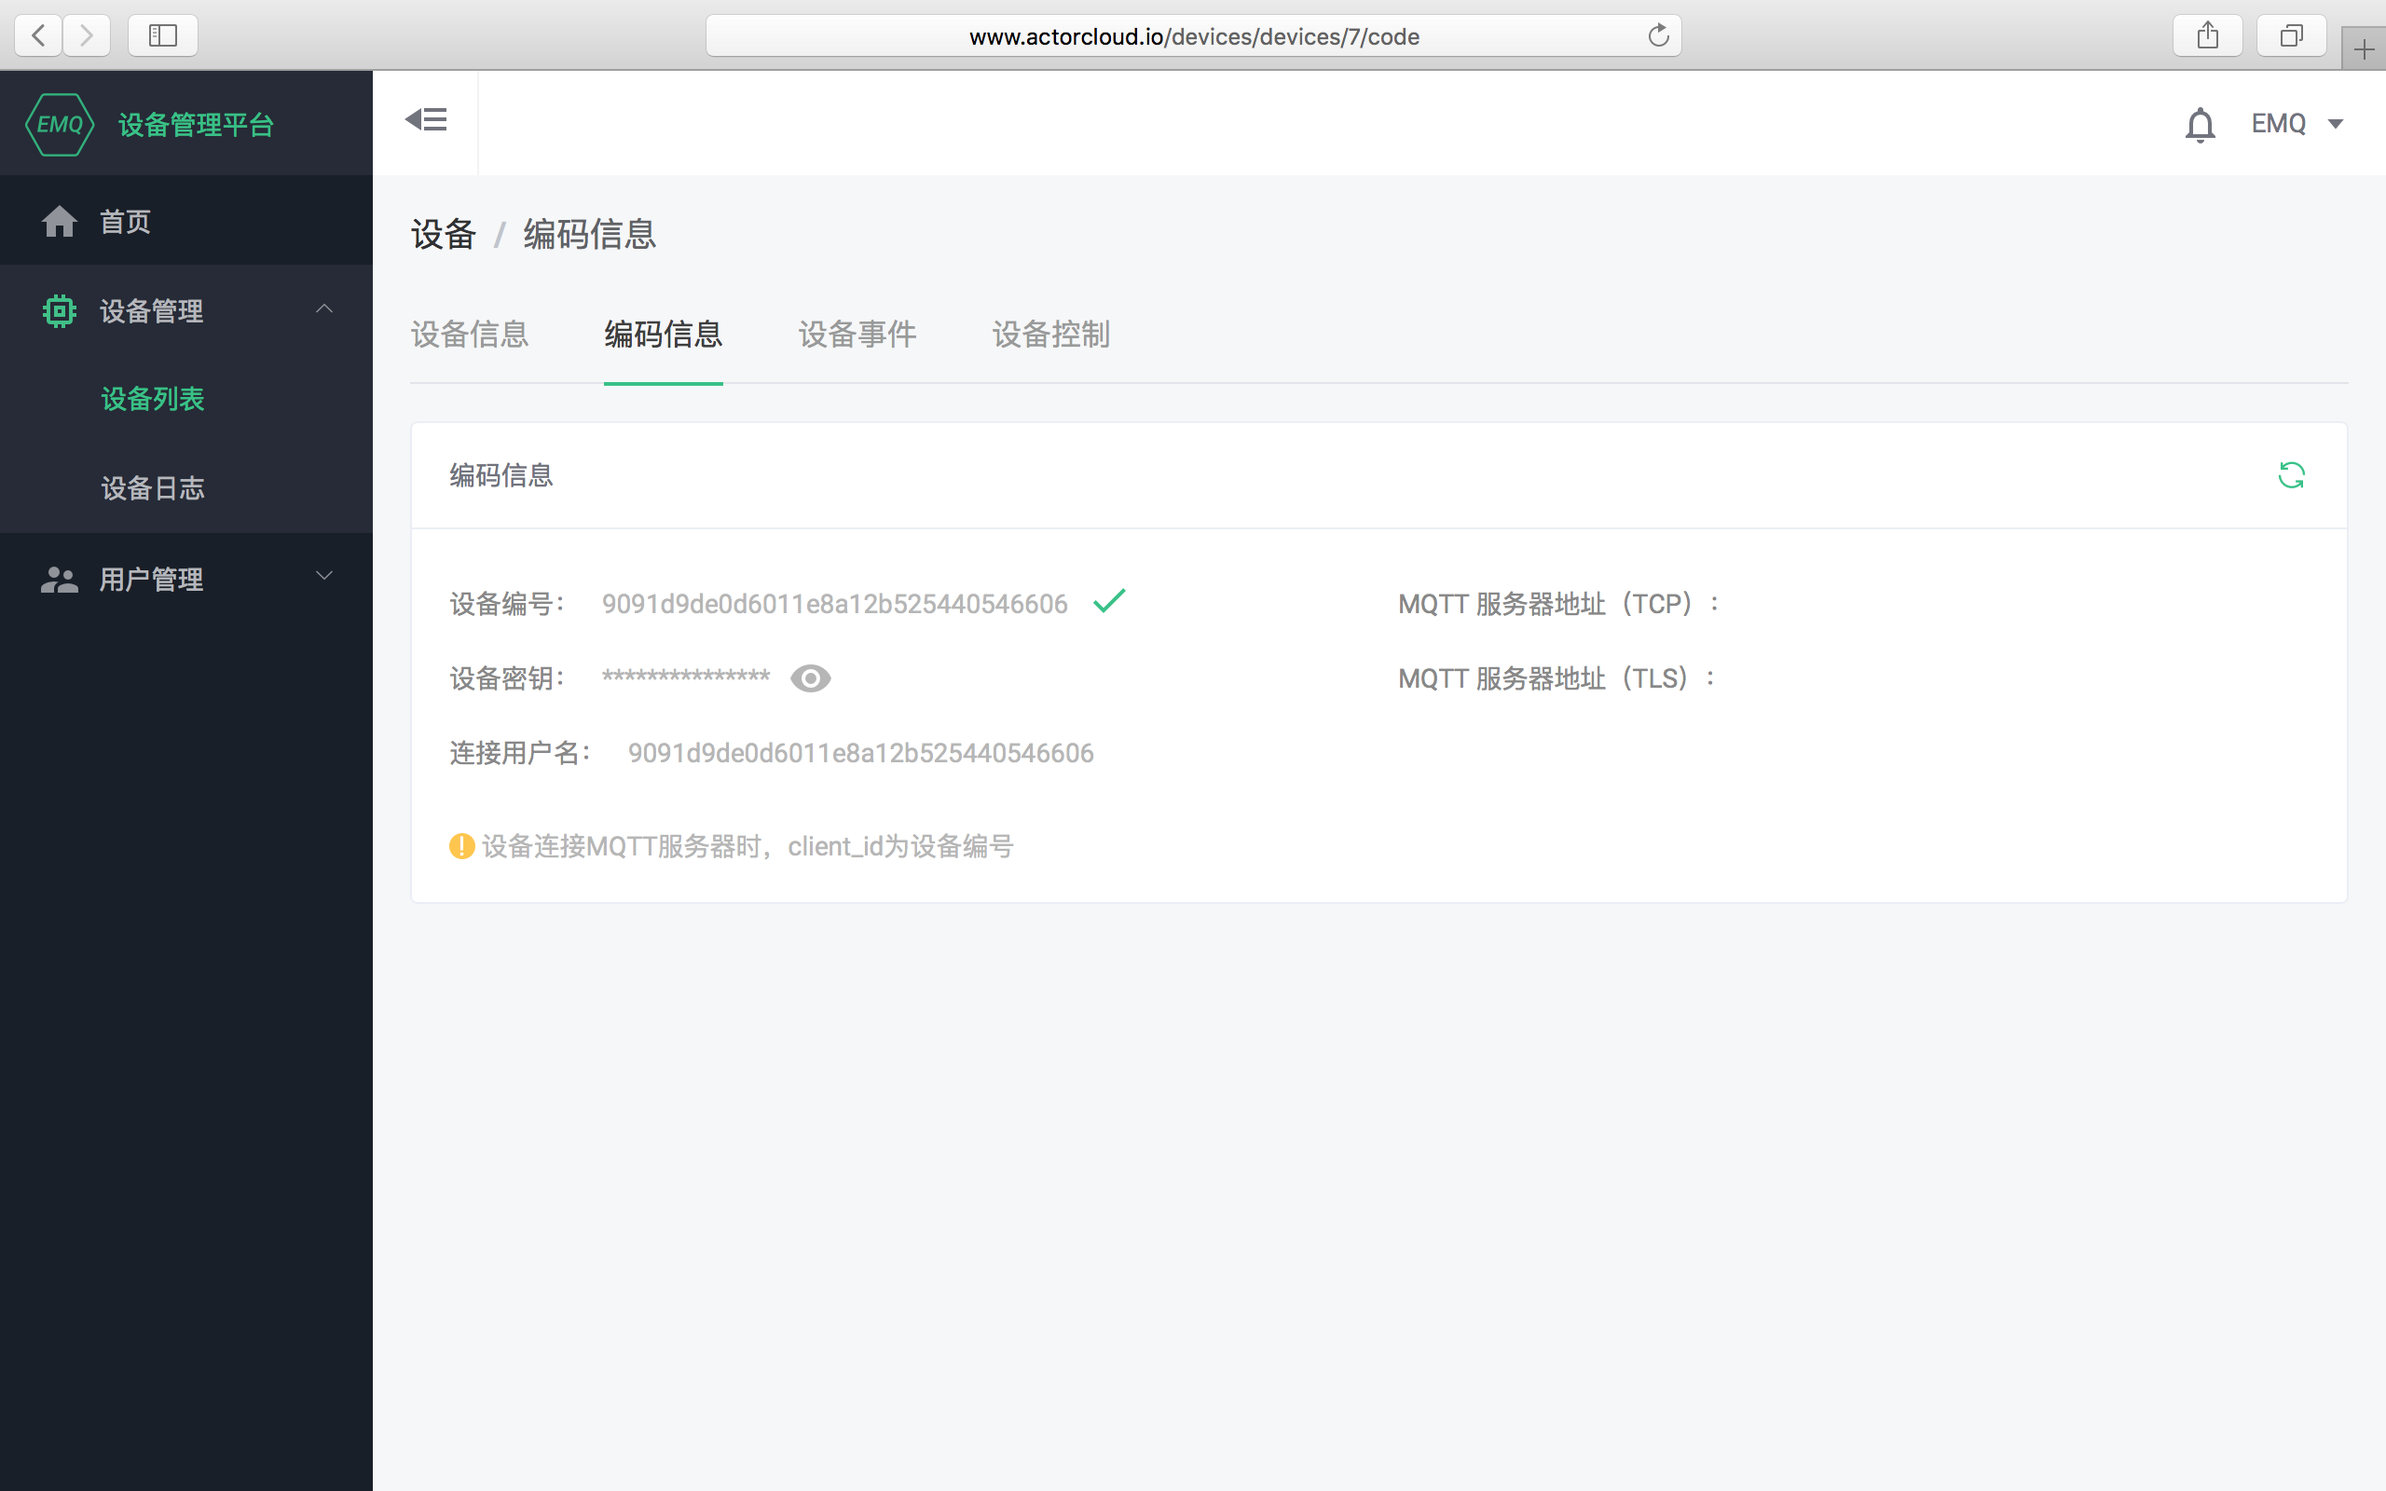
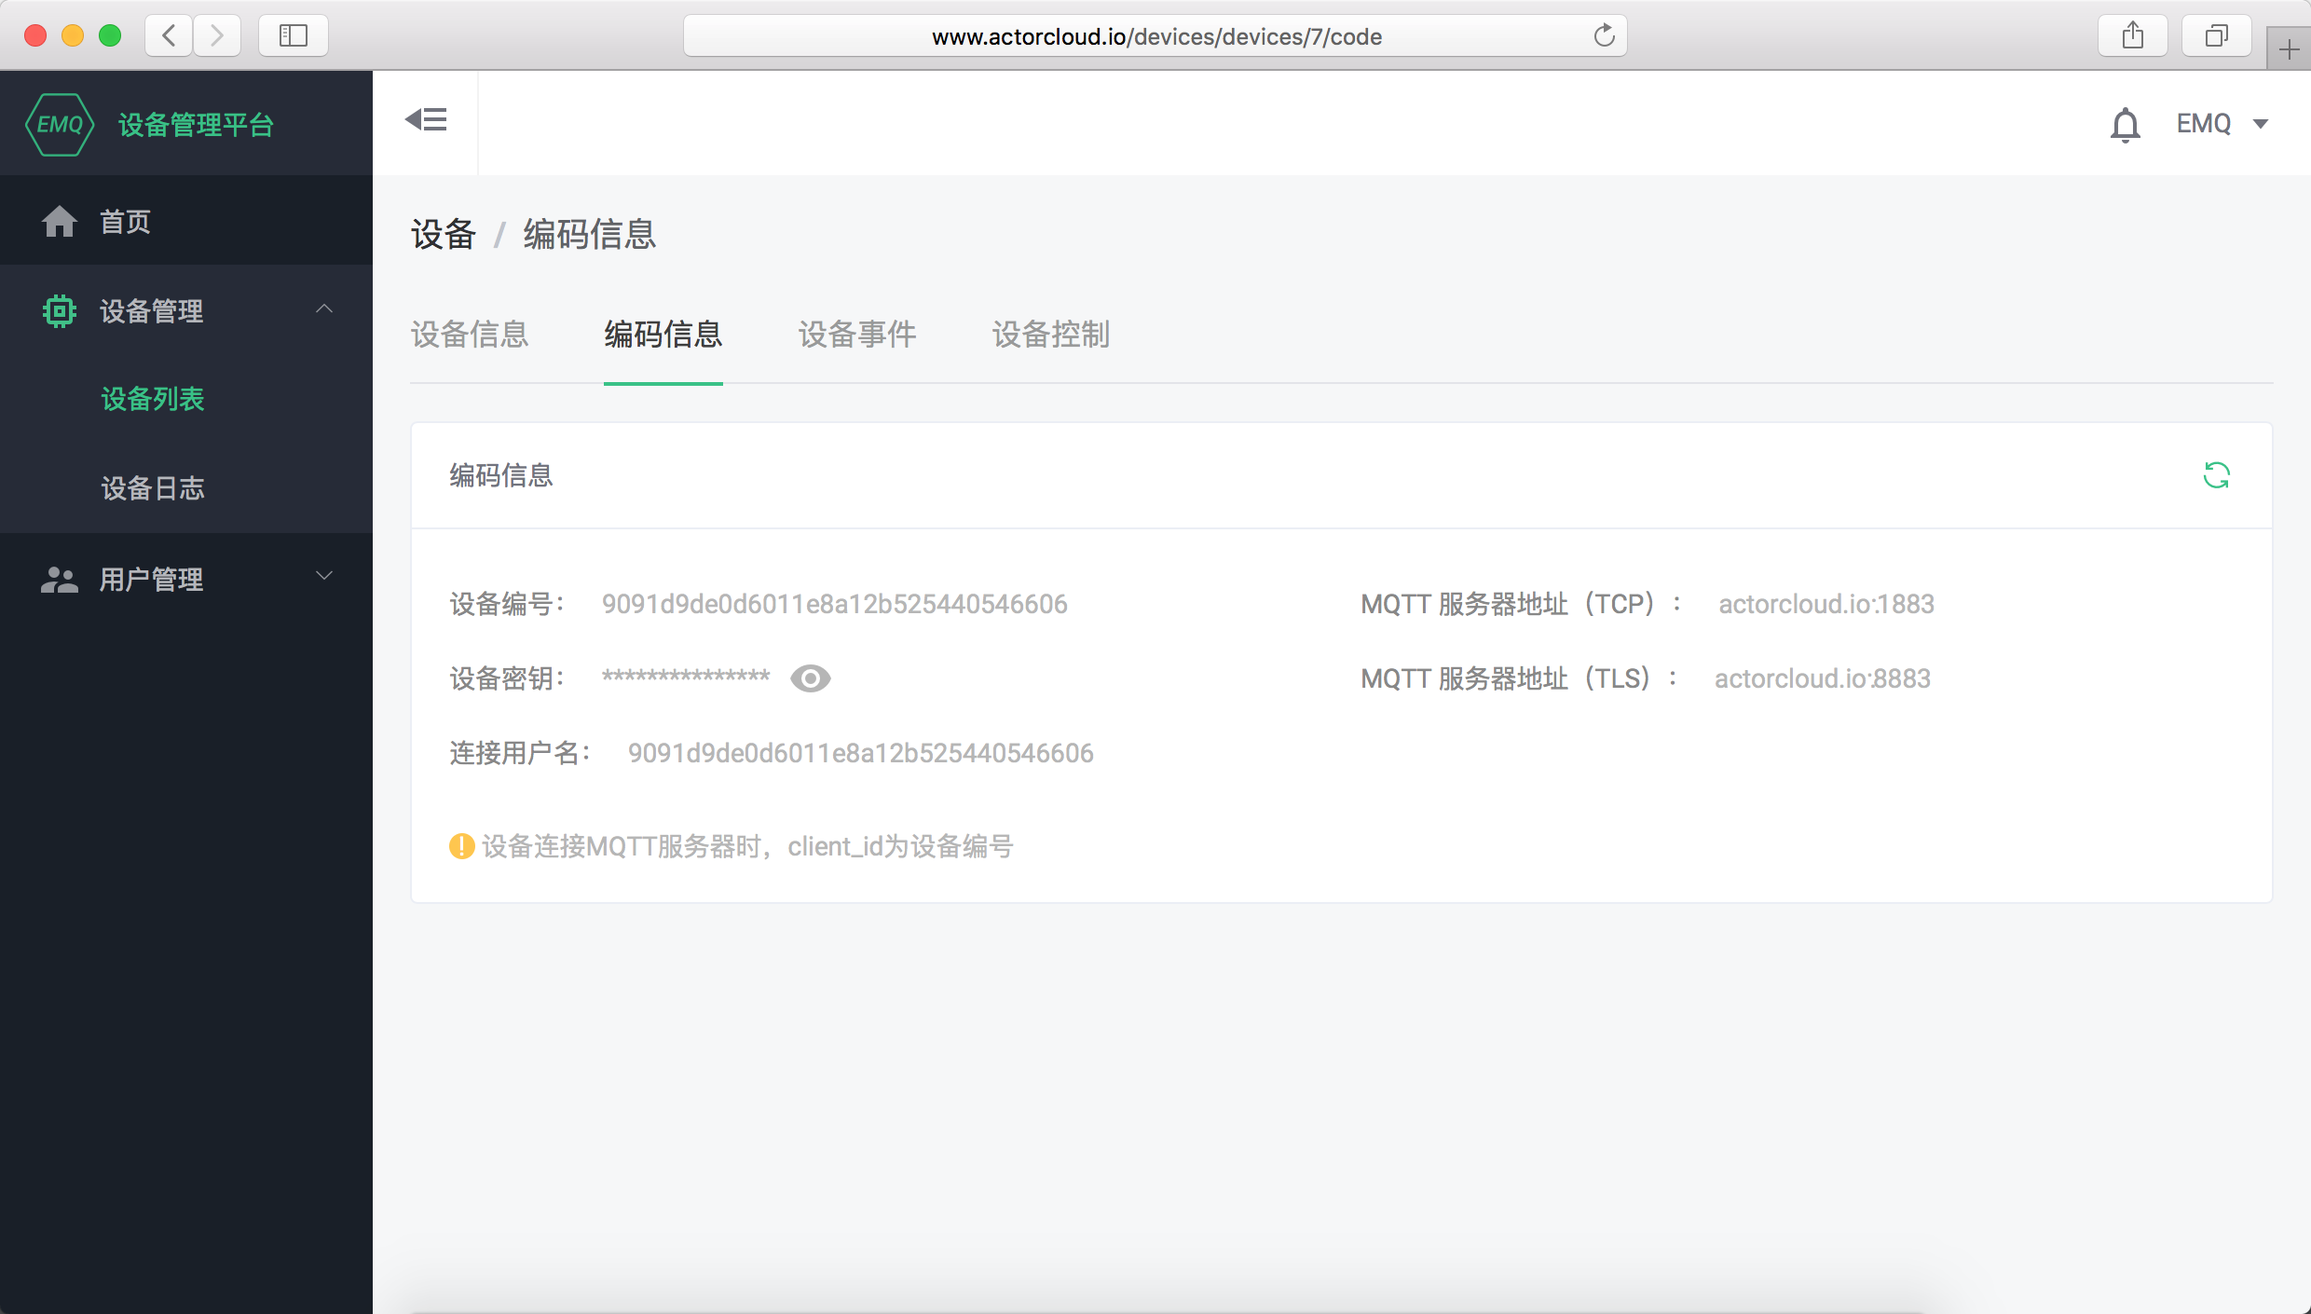
feat(content): 完善内容

diff --git a/device_connect/device_auth.md b/device_connect/device_auth.md
@@ -1,8 +1,53 @@
-# 认证控制
+# 认证鉴权
 
-**设备管理平台** 所添加的设备信息中，认证信息作为 **消息服务器** `PostgreSQL认证/访问控制插件`_ 的数据源，
-供 **消息服务器** 进行设备连接鉴权控制。
+**设备管理平台**所添加的设备信息中，认证信息作为**消息服务器 ACL 规则**的数据源，供**消息服务器**进行设备连接鉴权控制。
 
-设备在连接到 **消息服务器** 时，应当使用 **设备详情** -> **编码信息** 中的设备编号、设备密钥、连接用户名与 MQTT 服务器地址进行连接。
+设备在连接到**消息服务器**时，应当使用**设备详情** -> **编码信息**中的设备编号、设备密钥、连接用户名与 MQTT 服务器地址进行连接。
+
+对应关系如下：
+- 设备编号：MQTT ClientId
+- 连接用户名：MQTT Username
+- 设备密钥：MQTT Password
+
+![](/assets/device_decode.png)
+
+**Python 客户端代码示例**
+
+```python
+# --coding: utf-8--
+
+import paho.mqtt.client as mqtt
+import json
+
+# 设备需要在 actorcloud 平台注册
+client_id = 'ce07c198187811e8a12b525440546606'
+username = 'ce07c198187811e8a12b525440546606'
+password = 'ce07c199187811e8a12b525440546606'
+HOST = 'actorcloud.io'
 
 
+def on_connect(client, userdata, flags, rc):
+    print('Connected with result code ' + str(rc))
+    client.subscribe(client_id)
+    client.publish(client_id, json.dumps({
+        'cmd': 'reboot'
+    }))
+
+
+# 设备控制、分组控制及其他方式 publish 的消息统一在此处理
+def on_message(client, userdata, msg):
+    print('from {0} received {1}'.format(msg.topic, str(msg.payload)))
+    # 其他处理逻辑
+    pass
+
+# 设备务必使用用户名密码认证
+client = mqtt.Client(client_id=client_id)
+client.username_pw_set(username, password)
+
+client.on_connect = on_connect
+client.on_message = on_message
+
+client.connect(HOST)
+
+client.loop_forever()
+```

diff --git a/README.md b/README.md
@@ -1,6 +1,28 @@
-# _EMQ_设备管理平台 actorcloud
+# *EMQ* 设备管理平台 actorcloud 使用手册
 
-***EMQ* 设备管理平台** **actorcloud** 正式上线，访问 [http://www.actorcloud.io](http://www.actorcloud.io/) 可进行功能预览、使用体验。
+***EMQ* 设备管理平台**（以下简称设备管理平台） **actorcloud** 正式上线，访问 [http://www.actorcloud.io](http://www.actorcloud.io/) 可进行功能预览、使用体验。
 
 **actorcloud** 是一个集连接记录、消息管理、用户管理功能的物联网设备管理平台， 平台提供设备和设备分组的创建管理、连接鉴权、消息存储与管理、事件查看与派发等功能。 用户可以通过 **actorcloud** 对接***EMQ X*消息服务器**进行联网设备的运维管理。
 
+#### 手册目录
+* [actorcloud 入门](introduction/introduction.md)
+  * [账户注册与登录](introduction/account.md)
+  * [平台数据概览](introduction/overview.md)
+  * [账户信息变更](introduction/account_modify.md)
+* [设备管理](device_list/device_list.md)
+  * [列表操作](device_list/operator.md)
+  * [新建设备](device_list/device_create.md)
+  * [设备信息](device_list/device_info.md)
+  * [新建产品](device_list/product_create.md)
+  * [新建分组](device_list/group_create.md)
+* [接入指南](device_connect/device_connect.md)
+  * [认证鉴权](device_connect/device_auth.md)
+  * [设备控制](device_connect/device_control.md)
+  * [消息持久化](device_connect/device_storage.md)
+* [设备日志](device_log/device_log.md)
+* [用户管理](user/user.md)
+  * [用户新建与用户邀请(公司账户)](user/invitation.md)
+  * [角色(公司账户)](user/role.md)
+  * [应用](user/application.md)
+  * [登录日志](user/log_log.md)
+* [REST API](rest/rest.md)

diff --git a/SUMMARY.md b/SUMMARY.md
@@ -4,26 +4,21 @@
 * [actorcloud 入门](introduction/introduction.md)
   * [账户注册与登录](introduction/account.md)
   * [平台数据概览](introduction/overview.md)
-  * [账户信息变更(公司账户)](introduction/account_modify.md)
-* [设备列表](device_list/device_list.md)
+  * [账户信息变更](introduction/account_modify.md)
+* [设备管理](device_list/device_list.md)
   * [列表操作](device_list/operator.md)
-  * [设备新建](device_list/device_create.md)
-  * [产品新建](device_list/product_create.md)
-  * [分组新建](device_list/group_create.md)
-* [设备信息](device_info/device_info.md)
-  * [编码信息](device_info/device_decode.md)
-  * [设备事件](device_info/device_event.md)
-  * [设备控制](device_info/device_control.md)
-* [设备连接与控制](device_connect/device_connect.md)
-  * [认证控制](device_connect/device_auth.md)
+  * [新建设备](device_list/device_create.md)
+  * [设备信息](device_list/device_info.md)
+  * [新建产品](device_list/product_create.md)
+  * [新建分组](device_list/group_create.md)
+* [接入指南](device_connect/device_connect.md)
+  * [认证鉴权](device_connect/device_auth.md)
   * [设备控制](device_connect/device_control.md)
   * [消息持久化](device_connect/device_storage.md)
 * [设备日志](device_log/device_log.md)
-  * [连接日志](device_log/device_connect_log.md)
-  * [上行消息](device_log/device_upstream.md)
-  * [下行消息](device_log/device_downstream.md)
 * [用户管理](user/user.md)
   * [用户新建与用户邀请(公司账户)](user/invitation.md)
   * [角色(公司账户)](user/role.md)
   * [应用](user/application.md)
   * [登录日志](user/log_log.md)
+* [REST API](rest/rest.md)

diff --git a/introduction/account.md b/introduction/account.md
@@ -1,8 +1,26 @@
 # 账户注册与登录
 
-1. 打开 [设备管理平台主页](http://www.actorcloud.io/)，如果你之前未登陆过平台或者登录信息已过期，再次访问平台时将会跳转到登录页面。
+#### 如果你没有 **actorcloud** 账户，请先注册。
+
+**注册 actorcloud 账户**
+
+1. 打开 [设备管理平台主页](http://www.actorcloud.io/)，如果你之前未登陆过平台或者登录信息已过期将会跳转到登录页面。
 2. 点击 [前去注册](http://www.actorcloud.io/signup)，根据你使用身份，完善注册信息，创建一个全新的账户。
 3. 账户创建成功后跳转到登录页面，使用账户邮箱与密码即可登录系统。
+4. 可使用用户邀请功能直接将邀请链接发送到指定邮箱进行注册。
+
+![](/assets/singup.png)
+
+> 如果用户通过邀请链接进入注册页面，页面不再提供账户类型选择。
+
+
+**登录 actorcloud 平台**
+
+- 使用已注册账号的邮箱和密码登录。
 
 ![](/assets/login.png)
 
+
+#### 个人用户与企业用户的区别
+- 个人用户使用单个账号管理平台，该账号拥有平台全部操作权限，适合单人管理使用。
+- 企业用户提供平台管理权限控制，可以直接创建或通过邮件邀请创建多个企业子账号、并赋予适当权限进行平台管理。

diff --git a/device_list/operator.md b/device_list/operator.md
@@ -2,11 +2,11 @@
 
 依次点击左侧导航栏**设备管理**->**设备列表**进入列表页，设备列表包含**设备**、**产品**、**分组**三个 TAB 页。
 
-点击每个 TAB 分别进入相关的列表页，列表页内可进行如下操作:
+点击每个 TAB 分别进入相关的列表页，列表页内可进行如下操作：
 
-1. 分页查看列表数据: 通过页码切换、分页大小切换可分页查看列表数据。
+1. 分页查看列表数据：通过页码切换、分页大小切换可分页查看列表数据。
 
-2. 快速搜索定位具体数据: 提供关键字搜索过滤功能，快速显示指定信心，可切换搜索关键字。
+2. 快速搜索定位具体数据：提供关键字搜索过滤功能，快速显示指定信心，可切换搜索关键字。
 
 3. 点击列表内**切换开关**可快速更改该列属性。
 
@@ -16,3 +16,4 @@
 
 ![](/assets/device_list.png)
 
+> 列表页中**新建**、**编辑**、**删除**、**切换开关**按钮的显示、可用性依赖于当前账号权限。

diff --git a/device_list/device_info.md b/device_list/device_info.md
@@ -1,0 +1,35 @@
+# 设备信息
+
+通过点击**设备**列表页设备名称，可进入设备信息页。
+
+该页包括**设备信息**、**编码信息**、**设备事件**、**设备控制**四个页面，其功能与展示信息如下：
+
+#### 编码信息
+
+包含有设备认证、服务器连接等信息。
+
+1. 设备编号：设备连接 MQTT 服务器时，client\_id 即为设备编号。
+
+2. 设备密钥：对应设备连接时 MQTT 连接密码。
+
+3. 连接用户名：对应设备连接时 MQTT 连接用户名。
+
+4. MQTT 服务器地址：MQTT 服务器加密、非加密连接地址。
+
+![](/assets/device_decode.png)
+
+> 编码信息为设备连接认证重要信息，请妥善保管。
+
+
+
+#### 设备事件
+
+设备上行消息记录。
+
+
+
+#### 设备控制
+
+该页展示通过**设备管理平台**向当前设备下发的信息。点击**添加指令**可向当前设备发送 JSON 格式的数据。
+
+![](/assets/device_controller.png)

diff --git a/device_connect/device_control.md b/device_connect/device_control.md
@@ -1,4 +1,8 @@
 # 设备控制
 
-通过**设备管理平台**向单个设备、整个分组下发的消息均由**设备管理平台**后端通过**消息服务器**`REST API`向
-特定主题(通过关联当前账户等信息编码产生)发送，设备无需关心具体主题，只需监听解析消息以进行相关操作。
+#### 设计原理
+actorcloud 中的设备在连接到消息服务器时会自动订阅设备单独主题和所属分组主题（通过关联当前账户等信息编码产生），通过**设备管理平台**向单个设备、整个分组下发的消息均由**设备管理平台**后端通过**消息服务器** [REST API](http://emqtt.com/docs/v2/rest.html#id18) 向设备发送，设备只需关注收到消息内容，通过内容来区分控制指令。
+
+
+#### 开发指南
+设备仍可订阅其他主题进行消息通信，建议尽可能少的创建订阅，推荐使用消息内容而非主题来区分指令。

diff --git a/device_log/device_log.md b/device_log/device_log.md
@@ -1,3 +1,21 @@
 # 设备日志
 
-依次点击左侧导航栏**设备管理** -> **设备日志**可查看设备日志信息。设备日志包含**连接日志**、**上行消息**、**下行消息**
+依次点击左侧导航栏**设备管理** -> **设备日志**可查看设备日志信息。设备日志包含**连接日志**、**上行消息**、**下行消息**。
+
+#### 连接日志
+
+所有设备的连接情况列表展示，包含连接时间、连接IP等信息。
+
+![](/assets/connect_logs.png)
+
+
+#### 上行消息
+
+所有设备上行消息列表，包含消息主题与消息内容等信息。
+
+
+#### 下行消息
+
+所有设备下行消息列表，包含指令内容与下发状态等信息。
+
+![](/assets/message_updown.png)

diff --git a/device_list/device_create.md b/device_list/device_create.md
@@ -2,7 +2,10 @@
 
 **设备**列表页中，点击右上角**新建**按钮可进行设备新建操作，设备必须对应一个产品，新建设备前需创建好设备所属产品。
 
-设备信息包含基本信息与认证信息，其中认证信息包含重要连接鉴权、消息记录关键信息。为保证设备正常使用，认证信息需按指定规则如实填写。
+设备信息包含基本信息与认证信息，其中认证信息包含重要连接鉴权、消息记录关键信息。为保证设备正常使用，认证信息需按指定规则如实填写，一经填写不可更改。
 
 ![](/assets/device_create_step_one.png)
 
+
+**认证方式Token 与证书区别：**
+- 区别：

diff --git a/introduction/introduction.md b/introduction/introduction.md
@@ -1,4 +1,11 @@
 # actoucloud 入门操作
 
+本教程向您提供 **actorcloud** 使用指南，包括设备创建、开发集成、消息发送和消息记录浏览所需的操作。
 
+完成本教程需要做好以下准备：
 
+- 一台能够访问公共网络的计算机。
+
+- 如果您已经有现成设备，则可以使用设备接入***EMQ X* 消息服务器**来完成本教程。
+
+- 如果您没有现成设备，可以通过使用 [MQTT 客户端](http://emqtt.com/clients)，利用软件环境来模拟一个接入设备，查看[接入指南](../device_connect/device_connect.md)。

diff --git a/user/user.md b/user/user.md
@@ -1,5 +1,11 @@
 # 用户管理
 
-*EMQ* **设备管理平台** 提供完善的系统管理功能，
+**设备管理平台** 提供完善的系统管理功能，
 公司账号通过用户管理、用户权限控制、邀请注册、用户角色管理等操作，
 区分使用多个角色、多个账号同时对公司内设备进行管理，可以方便的进行公司内管理拓展。
+
+**可用操作如下：**
+* [用户新建与用户邀请(公司账户)](../user/invitation.md)
+* [角色(公司账户)](../user/role.md)
+* [应用](../user/application.md)
+* [登录日志](../user/log_log.md)

diff --git a/introduction/overview.md b/introduction/overview.md
@@ -2,7 +2,7 @@
 
 点击左侧导航栏**首页**即可查看当前账户的概览信息。 该页提供**当前设备在线情况**、**最近24小时连接情况**、**设备总数**、**消息数**等平台数据可视化图表展示。
 
-点击该页**设备数量**、**产品数量**、**分组数量**、**用户数量**几个指标的数值可跳转到相关列表页查看详情。
+点击该页**设备数量**、**产品数量**、**分组数量**、**用户数量**几个指标的数值可跳转到相关列表页查看数据。
 
 ![](/assets/overview.png)
 
